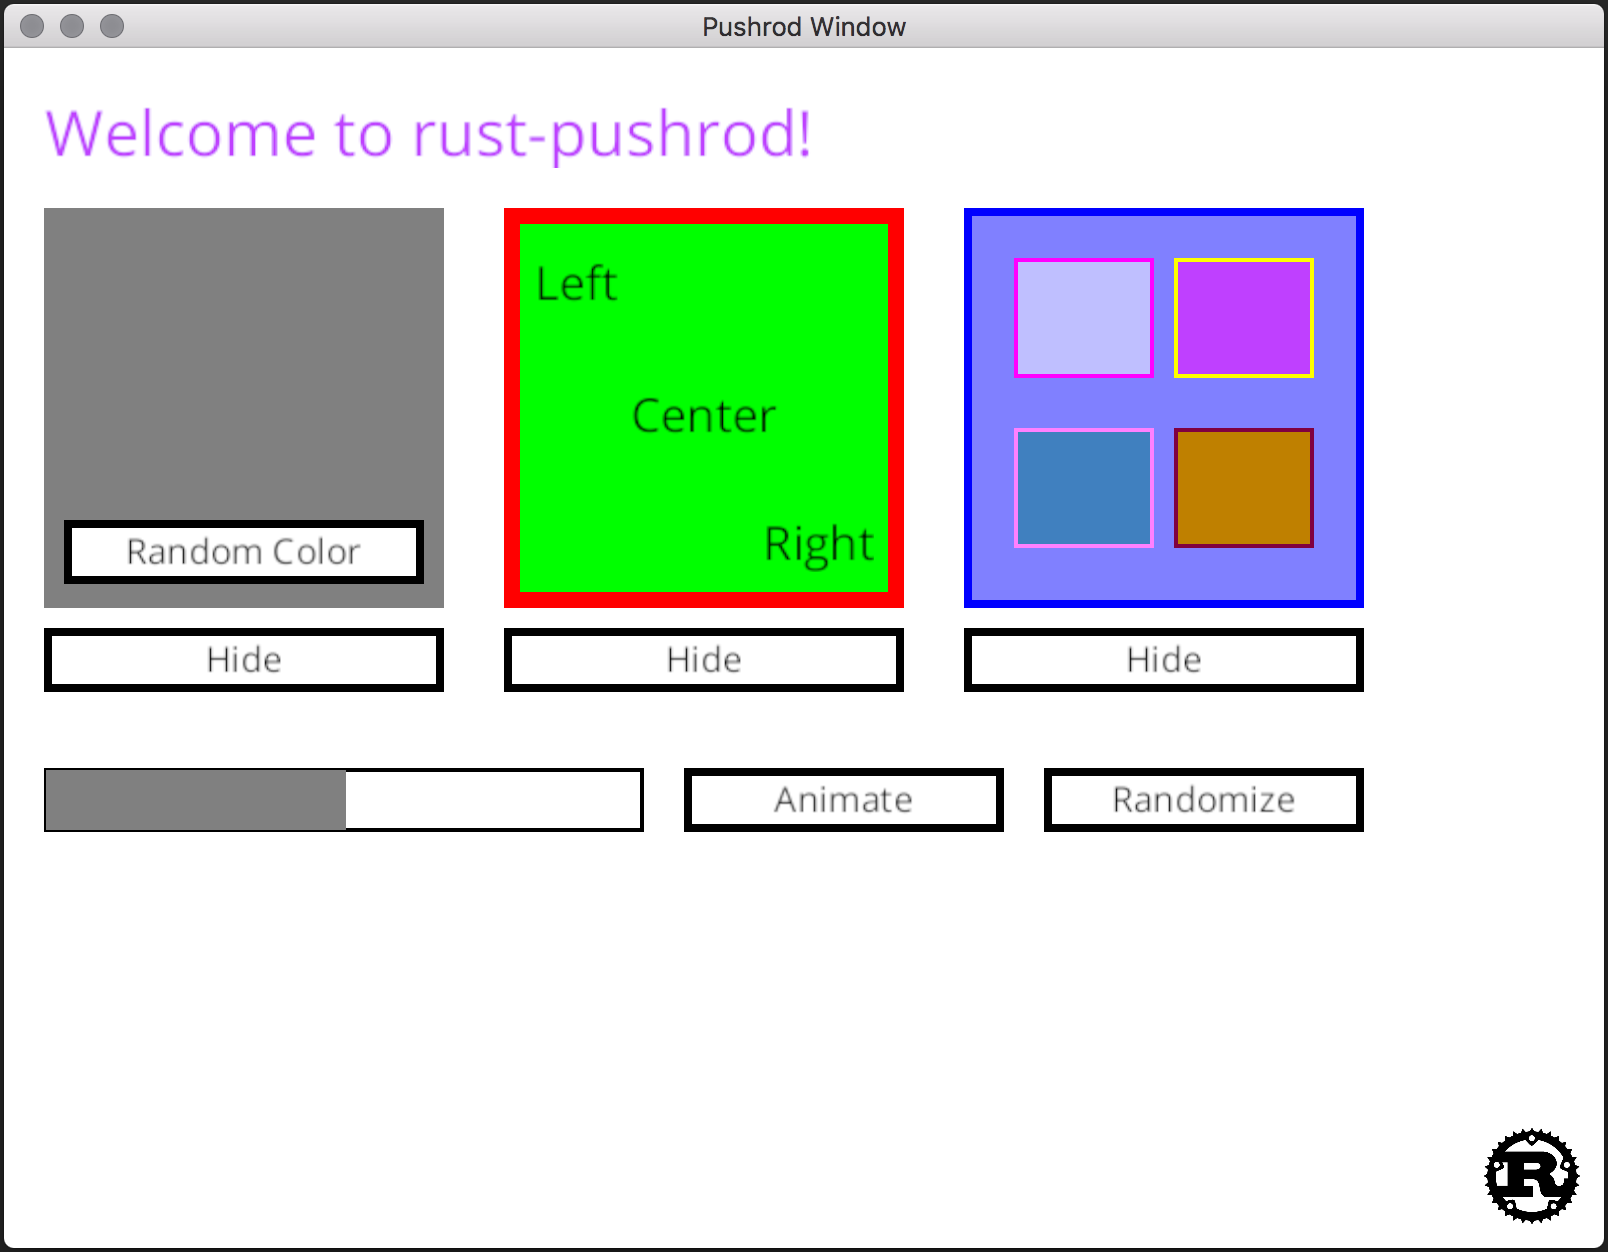
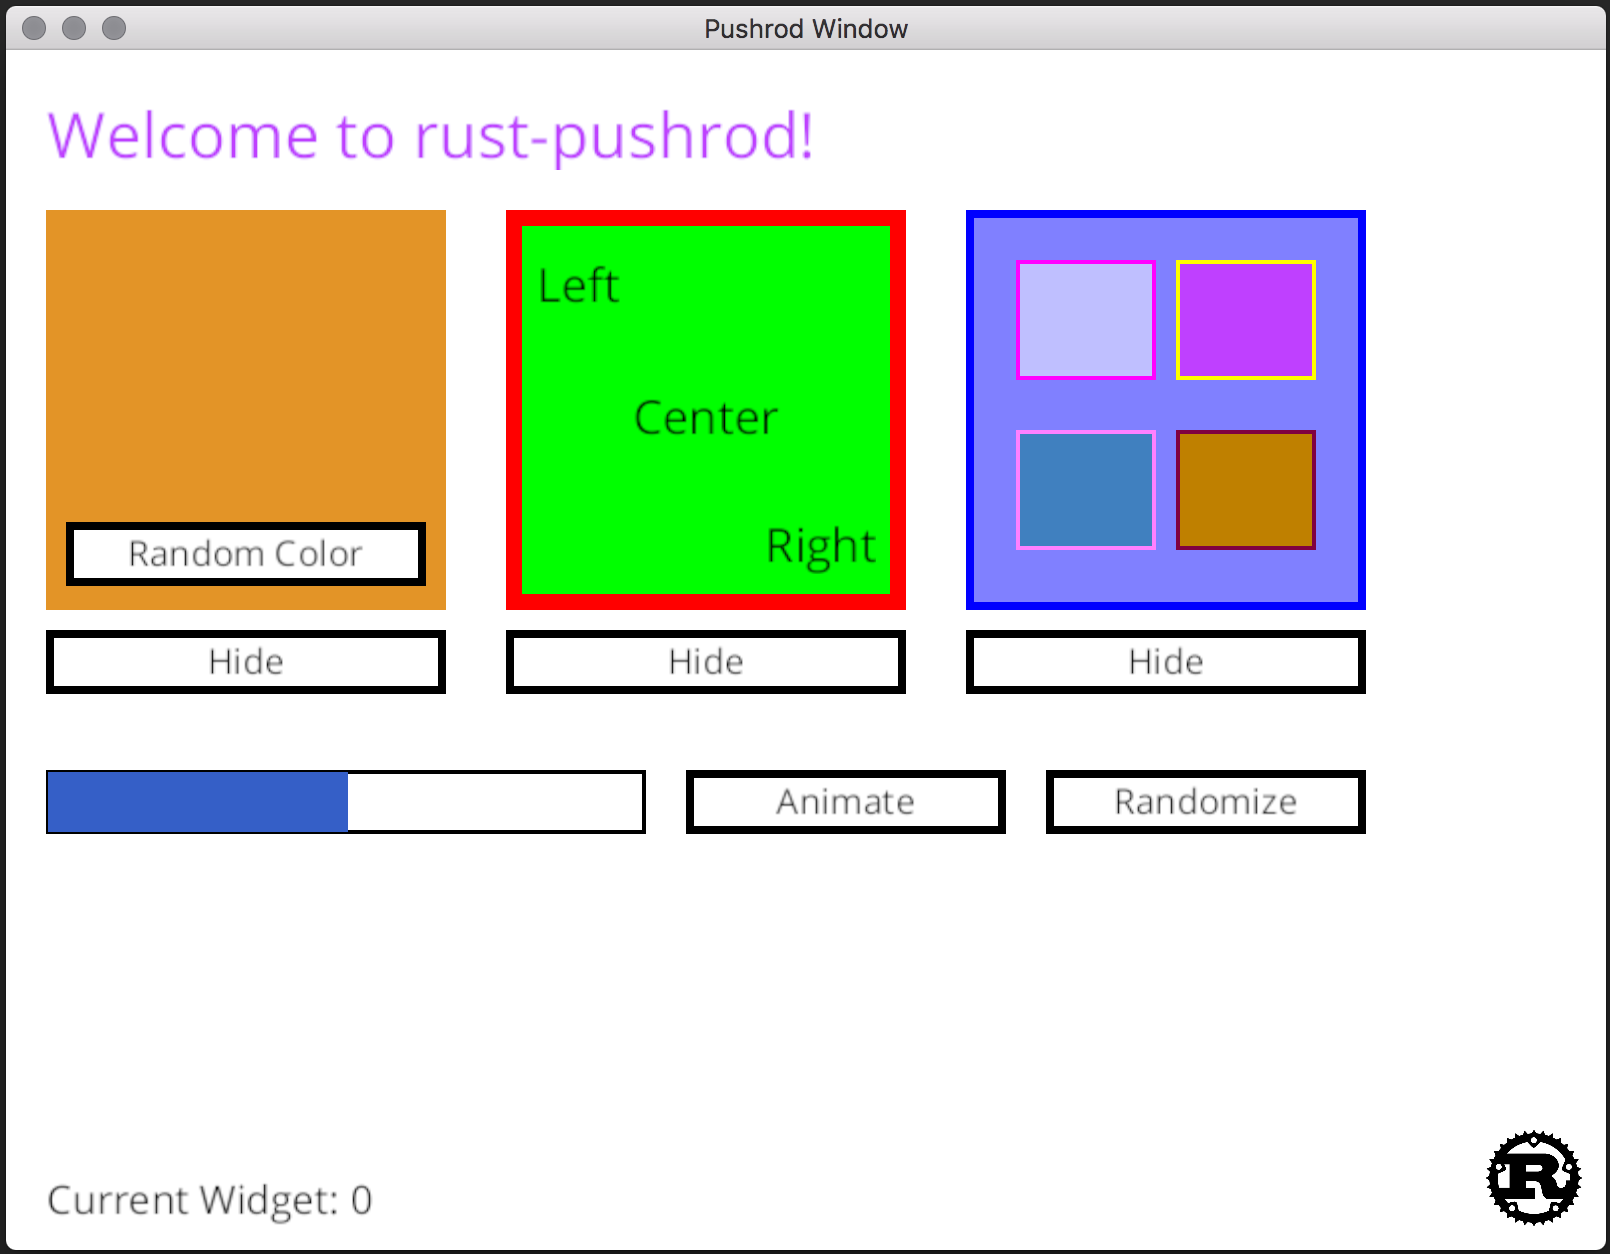
Added text widget ot show debugging.

diff --git a/examples/simple.rs b/examples/simple.rs
@@ -41,6 +41,12 @@ pub struct SimpleWindowEventHandler {
 impl PushrodCallbackEvents for SimpleWindowEventHandler {
     fn handle_event(&mut self, event: CallbackEvent, widget_store: &mut WidgetStore) {
         match event {
+            CallbackEvent::MouseEntered { widget_id } => {
+                // When a mouse enters a widget, the ID will get modified; modify the debug widget
+                // with the ID that was specified.
+                eprintln!("Mouse Entered: {}", widget_id);
+            },
+
             CallbackEvent::WidgetClicked { widget_id, button } => {
                 match widget_store.get_name_for_widget_id(widget_id) {
                     "RandomColorButton1" => match button {
@@ -340,6 +346,22 @@ impl SimpleWindow {
         self.pushrod.borrow_mut().add_widget("TimerWidget1", Box::new(timer));
     }
 
+    fn add_debugging(&mut self) {
+        let mut text_widget1 = TextWidget::new(
+            self.pushrod.borrow_mut().get_factory(),
+            "OpenSans-Regular.ttf".to_string(),
+            "Current Widget: 0".to_string(),
+            20,
+            TextJustify::Left,
+        );
+        text_widget1.set_origin(20, 560);
+        text_widget1.set_size(400, 28);
+        text_widget1.set_text_color([0.0, 0.0, 0.0, 1.0]);
+        self.pushrod
+            .borrow_mut()
+            .add_widget("DebugText1", Box::new(text_widget1));
+    }
+
     fn build(&mut self) {
         self.add_hello_world();
         self.add_base_widget();
@@ -347,6 +369,7 @@ impl SimpleWindow {
         self.add_powered_by();
         self.add_progress();
         self.add_timer();
+        self.add_debugging();
     }
 
     fn get_pushrod(&mut self) -> &mut Pushrod {
